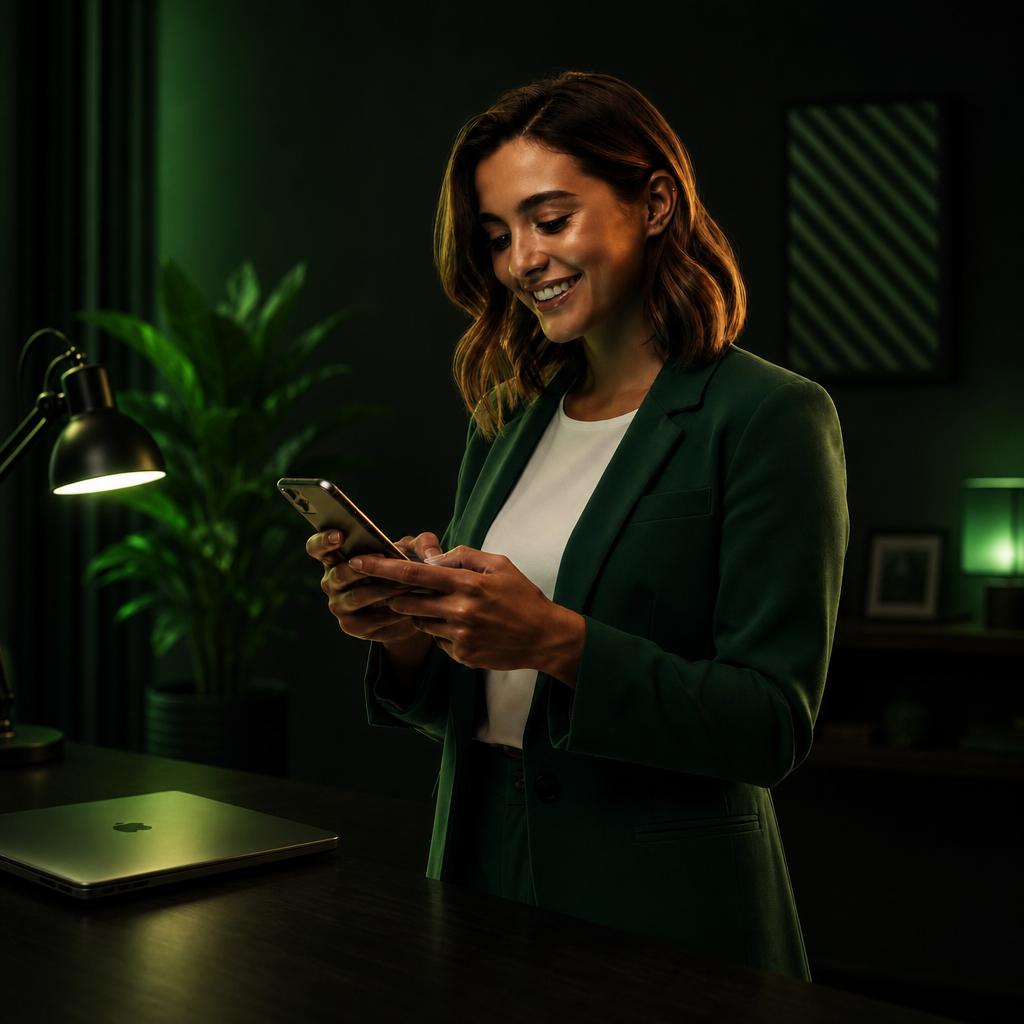
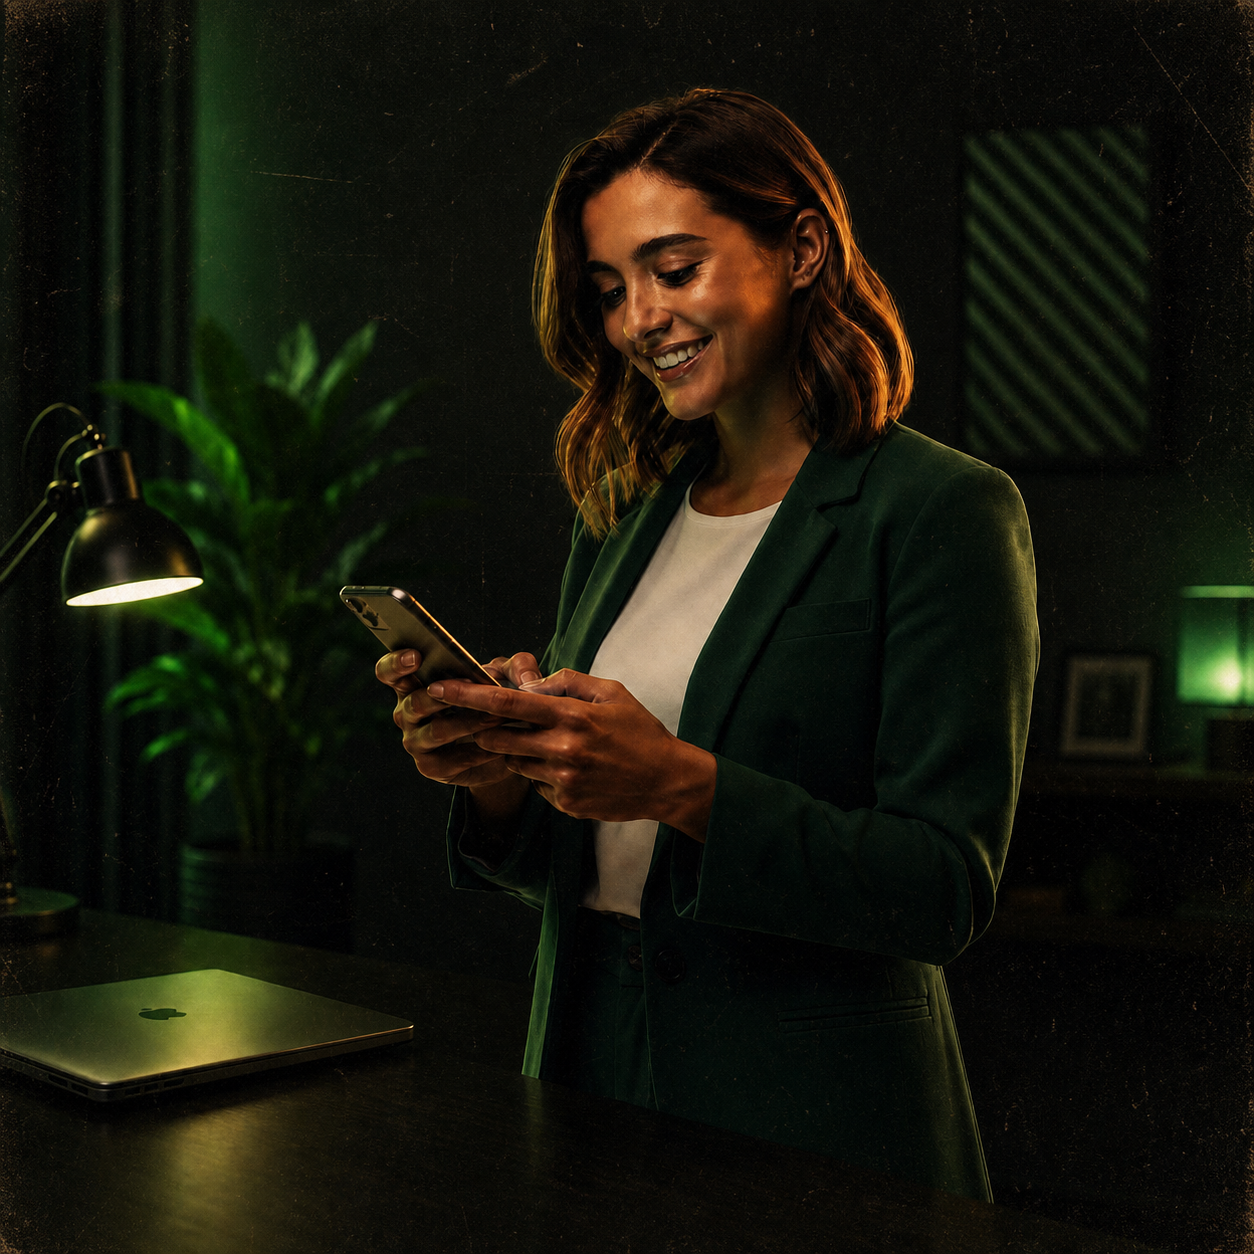
Trajetoria: foto do Telecom (2024) sem filtro P&B (mantem cor original on-brand)

diff --git a/index.html b/index.html
@@ -386,6 +386,8 @@
     mix-blend-mode:overlay;opacity:.5}
   .jphoto img{display:block;width:100%;height:100%;object-fit:cover;
     filter:grayscale(1) sepia(.38) hue-rotate(66deg) saturate(.85) contrast(1.06) brightness(.9)}
+  /* foto do Telecom (2024) e colorida/on-brand: sem o filtro P&B esverdeado */
+  .jphoto.jp3 img{ filter:none }
   .jp1{width:180px;height:180px;right:-370px;top:-46px}
   .jp2{width:240px;height:156px;left:-400px;top:64px}
   .jp3{width:164px;height:214px;right:-395px;top:18px}